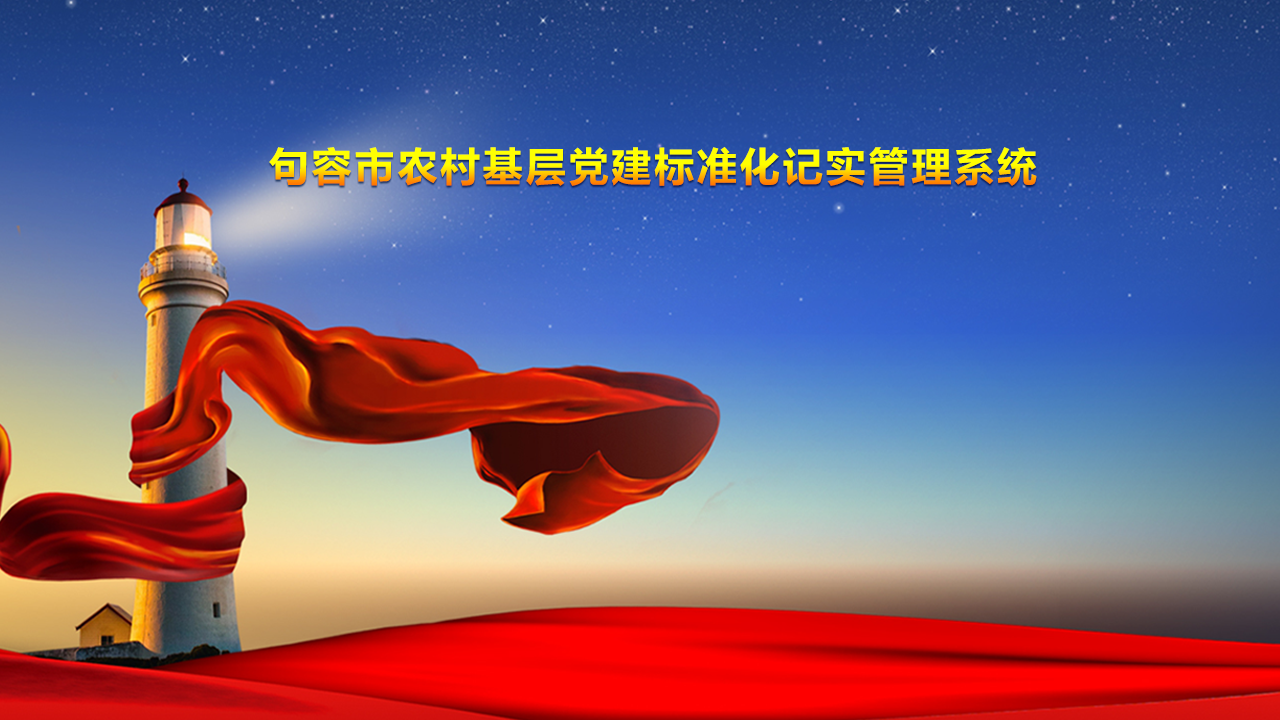
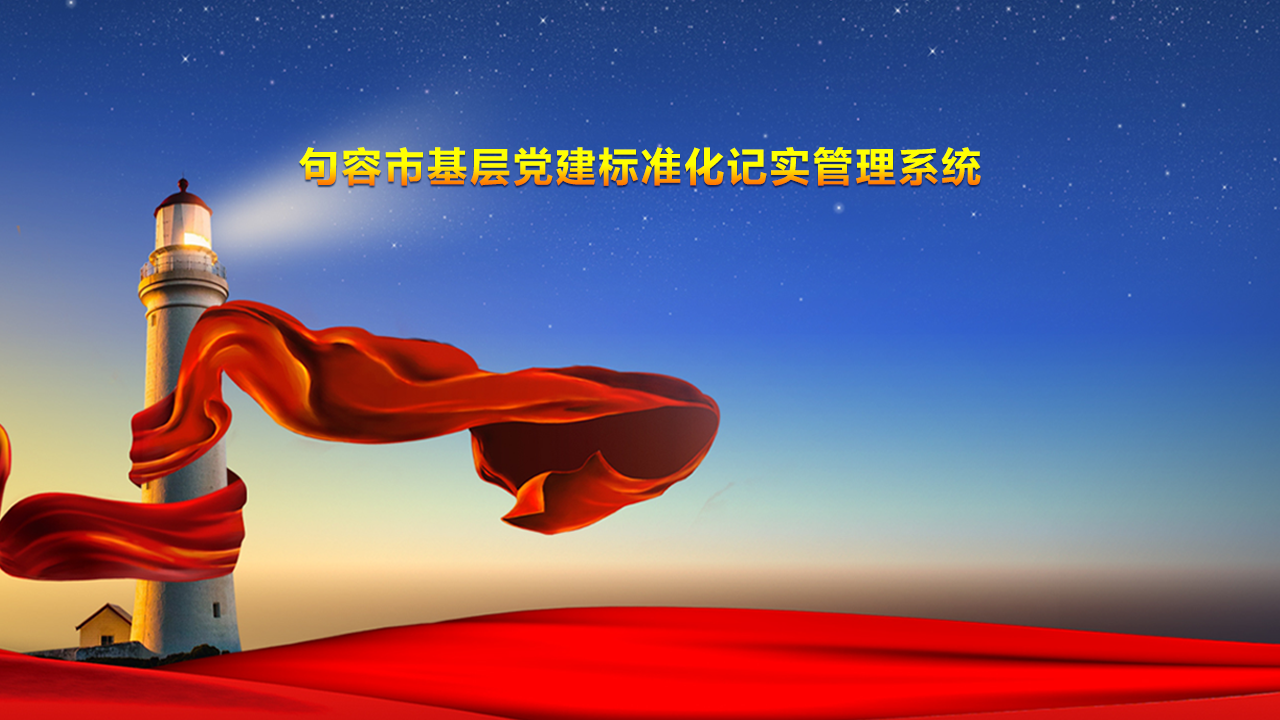
修改项目名称

Changed region(s): [[0.1875, 0.1833, 0.8125, 0.275]]

diff --git a/index.html b/index.html
@@ -3,7 +3,7 @@
 <head>
     <meta charset="utf-8">
     <meta name="viewport" content="width=device-width,initial-scale=1.0">
-    <title>句容市农村基层党建标准化记实管理系统</title>
+    <title>句容市基层党建标准化记实管理系统</title>
 
     <script type="text/javascript" src="http://api.map.baidu.com/api?v=2.0&ak=eERiseUuwPFUA2LvVpGjGY46N6baIunz"></script>
     <script type="text/javascript" src="static/js/BMapLib_InfoBox.js"></script>
